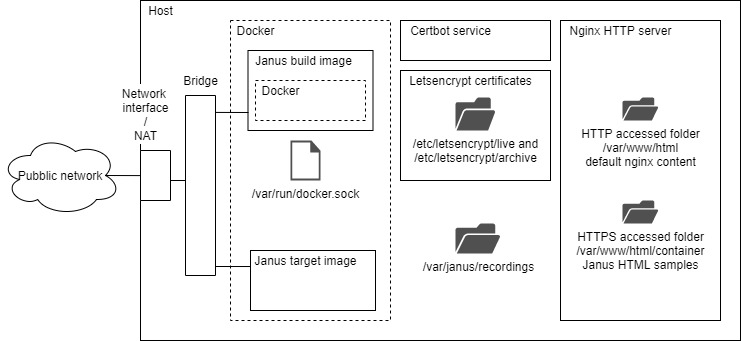
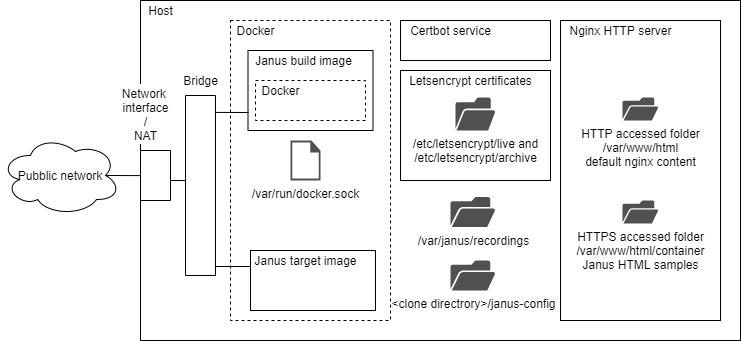
Updating setup instructions

Changed region(s): [[0.5587, 0.5572, 0.7139, 0.8504], [0.5277, 0.8798, 0.7449, 0.9091]]

diff --git a/README.md b/README.md
@@ -34,7 +34,9 @@ Please note that the /var/www/html folder contains the Nginx default index.html 
 * */var/janus/recordings* (to container */janus/bin/janus-recordings*): This folder is used by the target image to store the video room recordings (when enabled).
 * */etc/letsencrypt/live/* (to container */etc/certs*) and */etc/letsecrypt/archive* (to container */archive*): These folders contain the links and actual Letsencrypt certificates requried for TLS and DTLS shared by both Nginx and Janus gateway
 The Janus build image mounts the following host volume:
-* */var/run/docker.sock* (to container */var/run/docker.sock*) enables the build image to use the Docker service from the host
+* */var/run/docker.sock* (to container */var/run/docker.sock*) enables the build image to use the Docker service from the host.
+* *\<clone directory\>/janus_config*, when the USE_HOST_CONFIG_DIR build parameter is set to 'true' the host janus configuration directory will be mounted and used in the 
+target image cration process.
 
 ## Process
 The figure below depicts the target image creation process.
@@ -42,8 +44,9 @@ The figure below depicts the target image creation process.
 ![Process](doc/process.jpg)
 
 The process consists in the following steps:
-1. The project is cloned from the Github repository. The default Janus gatway server configuration in */janus_config* cloned subfolder is reviewed and modified according 
-to the requirements of the target image.
+1. The project is cloned from the Github repository. The default Janus gatway server configuration in *\<clone directory\>/janus_config* subfolder is reviewed and modified according 
+to the requirements of the target image. This folder is copied into the build image and will be used in the target image creation. Instead of using the copied conted during 
+the build image creation, by defining the USE_HOST_CONFIG_DIR variable (see below), it is possible to mount the *\<clone directory\>/janus_config* during the target image creation process.
 1. The build image creation is triggered by setting some required environment variables and invoking the *container.sh* script. The build relies on *Dockerfile.build* and *setup.sh* scripts 
 to install the necessary components in the build image. 
 1. Once the build image is created the *container.sh* script triggers the target image build process that relies on *Dockerfile.exec* and *build.sh* scripts, copied into the build image in the previous step. 
@@ -184,6 +187,7 @@ steps for some additional convenience settings.
 	export HOST_NAME = # Name of the host including the fqdn (e.g. <host>.<domain>), must be specified.
 	export SKIP_BUILD_IMAGE = # When set to "true" the build image will not be built
 	export SKIP_TARGET_IMAGE = # When set to "true" the target image will not be build
+	export USE_HOST_CONFIG_DIR = #When set to 'true' the build image will mount the host Janus gatway configuration directory (e.g. <clone directory>/janus-config) instead of using the one that was copied during the build image creation
 	```
 1. Review the Janus gateway configuration files stored in *<clone directory>/janus_config* directory these files will be integrated into the target image.
 1. Launch the build process, this process performs two steps: creates the build image (unless the *SKIP_BUILD_IMAGE* is set to *"true"*), 
